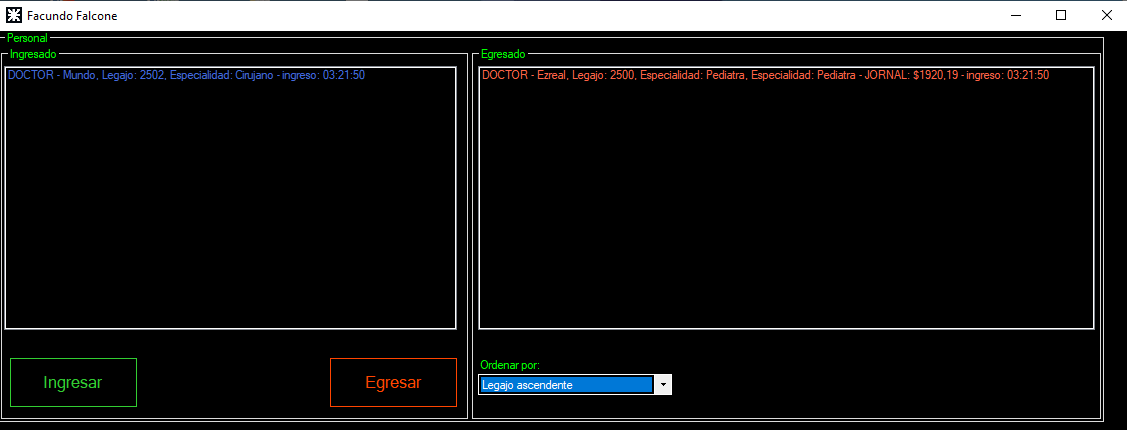
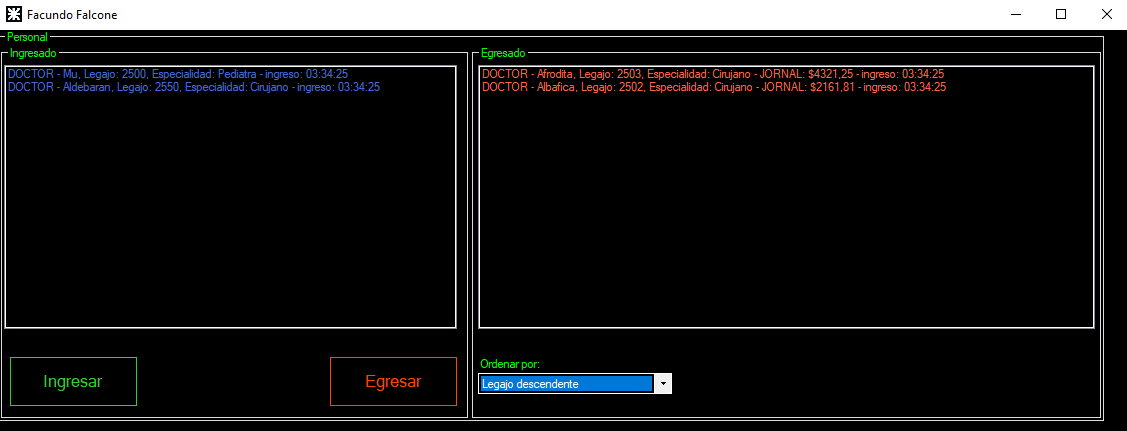
2021_PP_Hospital [Terminado]

diff --git a/Modelos_Examenes/2021_PP_Hospital/EntidadesRPP/Classes/MedicoEgresado.cs b/Modelos_Examenes/2021_PP_Hospital/EntidadesRPP/Classes/MedicoEgresado.cs
@@ -97,7 +97,7 @@ namespace EntidadesRPP {
         /// <returns>The surname, docket number, speciality and jornal salary  of the entity as a string.</returns>
         protected override string ArmarInfo() {
             StringBuilder data = new StringBuilder();
-            data.Append($"{base.ArmarInfo()}, Especialidad: {this.especialidad} - JORNAL: ${Math.Round(this.Jornal, 2)}");
+            data.Append($"{base.ArmarInfo()} - JORNAL: ${Math.Round(this.Jornal, 2)}");
 
             return data.ToString();
         }

diff --git a/Modelos_Examenes/2021_PP_Hospital/WindowsFormsAppTest/Program.cs b/Modelos_Examenes/2021_PP_Hospital/WindowsFormsAppTest/Program.cs
@@ -32,7 +32,7 @@ namespace WindowsFormsAppTest {
         /// </summary>
         [STAThread]
         static void Main() {
-            Application.EnableVisualStyles();
+            //Application.EnableVisualStyles();
             Application.SetCompatibleTextRenderingDefault(false);
             Application.Run(new FrmPrincipal());
         }
